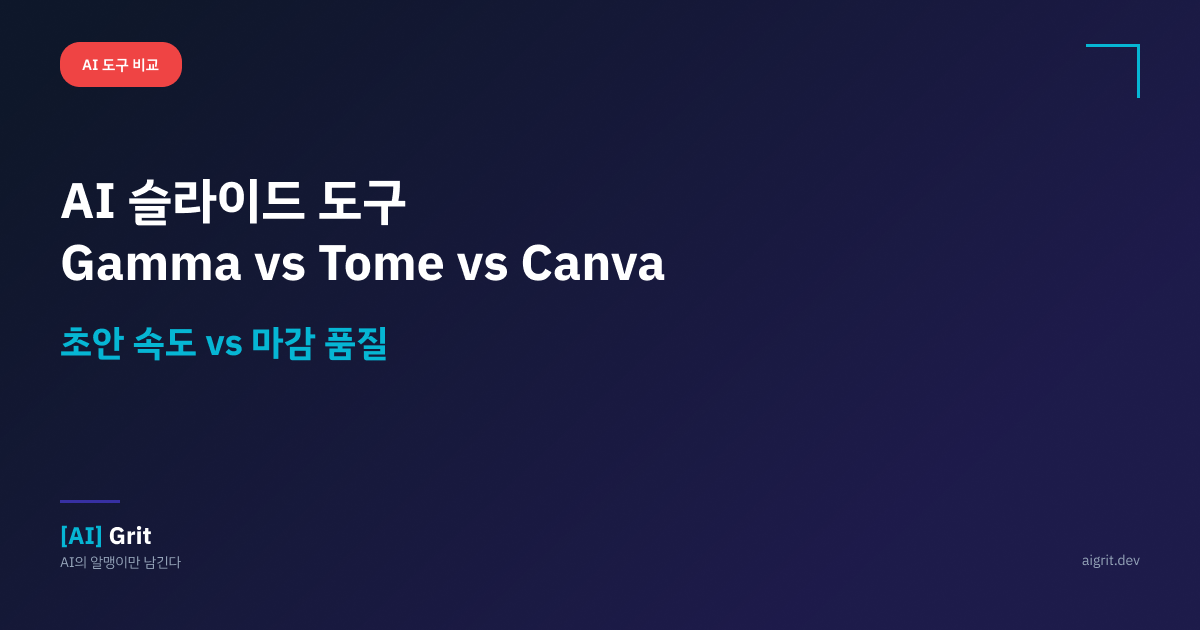
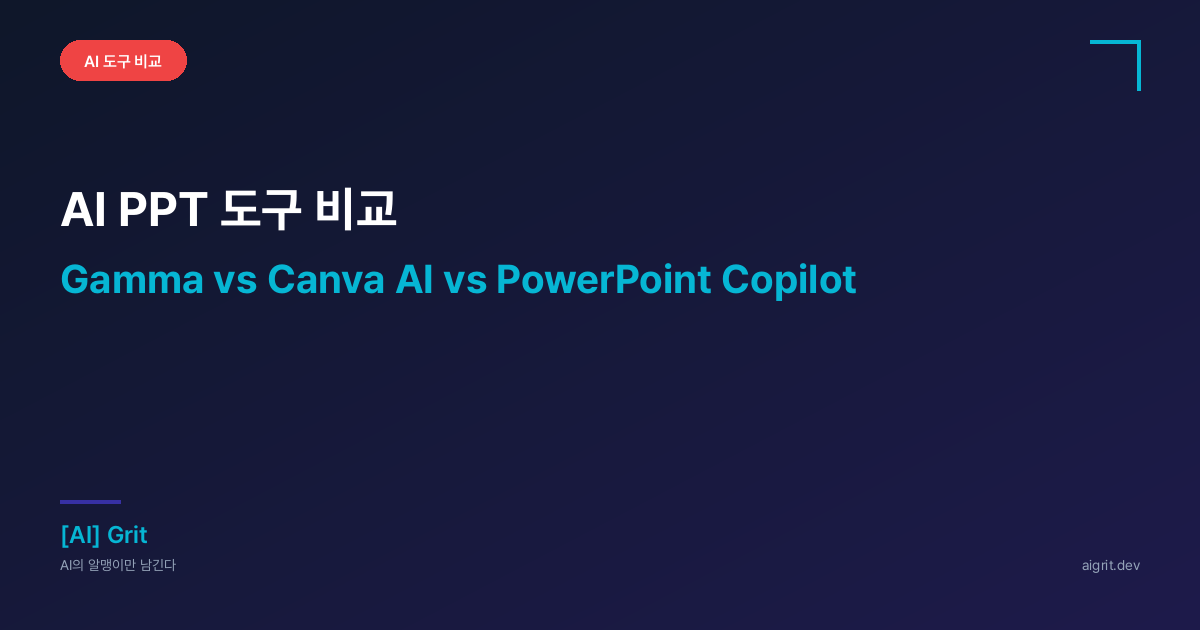
post(aigrit): 예약 글 정비 2차 — 아바타·디자인 비교 점수 제거, 예약 글 OG 부제 교체
- heygen-vs-synthesia-vrew: 점수 섹션·이미지 삭제, Synthesia 공식 요금 반영, 개요 표 재생성
- canva-ai-vs-firefly-vs-recraft: 테스트 콜아웃·점수 섹션 삭제, 라이선스 단정 표현 완화, 표·흐름 이미지 재생성
- 10월~1월 예약 글 OG: "AI 도구 실사용 리뷰" 부제를 글별 키워드 부제로 교체
- generate-og-all.py: 예약 글 제목·부제 맵 추가

Claude-Session: https://claude.ai/code/session_01SovLyEgD3EAvsTSQs8Xmf5

diff --git a/scripts/og/generate-og-all.py b/scripts/og/generate-og-all.py
@@ -264,6 +264,20 @@ AG_SUBTITLES = {
     "obsidian-mcp-plugins-best-5": "Claude와 vault를 연결하는 방법",
     "claude-blog-workflow-seo": "1인 운영자의 자동화 SOP",
     "obsidian-claude-code-mcp": "노트와 코드를 한 워크플로우로",
+    # 예약 글 (2026-10 정비)
+    "elevenlabs-vs-resemble-ai": "음성 합성 vs 딥페이크 탐지, 두 회사의 길",
+    "ai-search-engines-comparison": "Perplexity vs ChatGPT Search vs Gemini",
+    "ai-presentation-tools-2026": "Gamma vs Canva AI vs PowerPoint Copilot",
+    "zapier-vs-make-vs-n8n": "쉬움 · 분기 · 셀프호스팅으로 고르기",
+    "v0-vs-bolt-vs-lovable": "AI 웹 빌더, 결과물 성격으로 고르기",
+    "github-copilot-vs-claude-code": "IDE 자동완성 vs 터미널 에이전트",
+    "ai-writing-tools-comparison": "Jasper vs Copy.ai vs Claude",
+    "ai-video-tools-complete-guide-2026": "생성 · 편집 · 아바타 · 음성, 역할로 고르기",
+    "ai-design-tools-complete-guide-2026": "이미지 · 로고 · UI · 라이선스 확인",
+    "nocode-vibe-coding-saas-guide-2026": "도구 역할 · 출시 스택 · 결제 체크",
+    "ai-agent-complete-guide-2026": "MCP · 도입 순서 · 도구 비교",
+    "heygen-vs-synthesia-vrew": "글로벌 · 기업 교육 · 한국어 자막으로 고르기",
+    "canva-ai-vs-firefly-vs-recraft": "콘텐츠 · 상업 이용 · 벡터로 고르기",
 }
 
 # AIGrit: shorten overly long titles for OG (title area)
@@ -295,6 +309,20 @@ AG_TITLE_OVERRIDES = {
     "obsidian-mcp-plugins-best-5": "Obsidian MCP 플러그인 BEST 5",
     "claude-blog-workflow-seo": "Claude로 블로그 글쓰기·발행·SEO 추적",
     "obsidian-claude-code-mcp": "Obsidian × Claude Code MCP 연결",
+    # 예약 글 (2026-10 정비)
+    "elevenlabs-vs-resemble-ai": "ElevenLabs vs Resemble AI",
+    "ai-search-engines-comparison": "AI 검색 엔진 비교",
+    "ai-presentation-tools-2026": "AI PPT 도구 비교",
+    "zapier-vs-make-vs-n8n": "Zapier vs Make vs n8n 비교",
+    "v0-vs-bolt-vs-lovable": "v0 vs Bolt vs Lovable",
+    "github-copilot-vs-claude-code": "GitHub Copilot vs Claude Code",
+    "ai-writing-tools-comparison": "AI 글쓰기 도구 비교",
+    "ai-video-tools-complete-guide-2026": "AI 영상 제작 도구 완벽 가이드 2026",
+    "ai-design-tools-complete-guide-2026": "AI 디자인 도구 완벽 가이드 2026",
+    "nocode-vibe-coding-saas-guide-2026": "노코드·바이브 코딩 SaaS 가이드 2026",
+    "ai-agent-complete-guide-2026": "AI 에이전트 완벽 가이드 2026",
+    "heygen-vs-synthesia-vrew": "HeyGen vs Synthesia vs Vrew",
+    "canva-ai-vs-firefly-vs-recraft": "Canva AI vs Firefly vs Recraft",
 }
 
 # babipanote: shorten overly long titles for OG if needed
